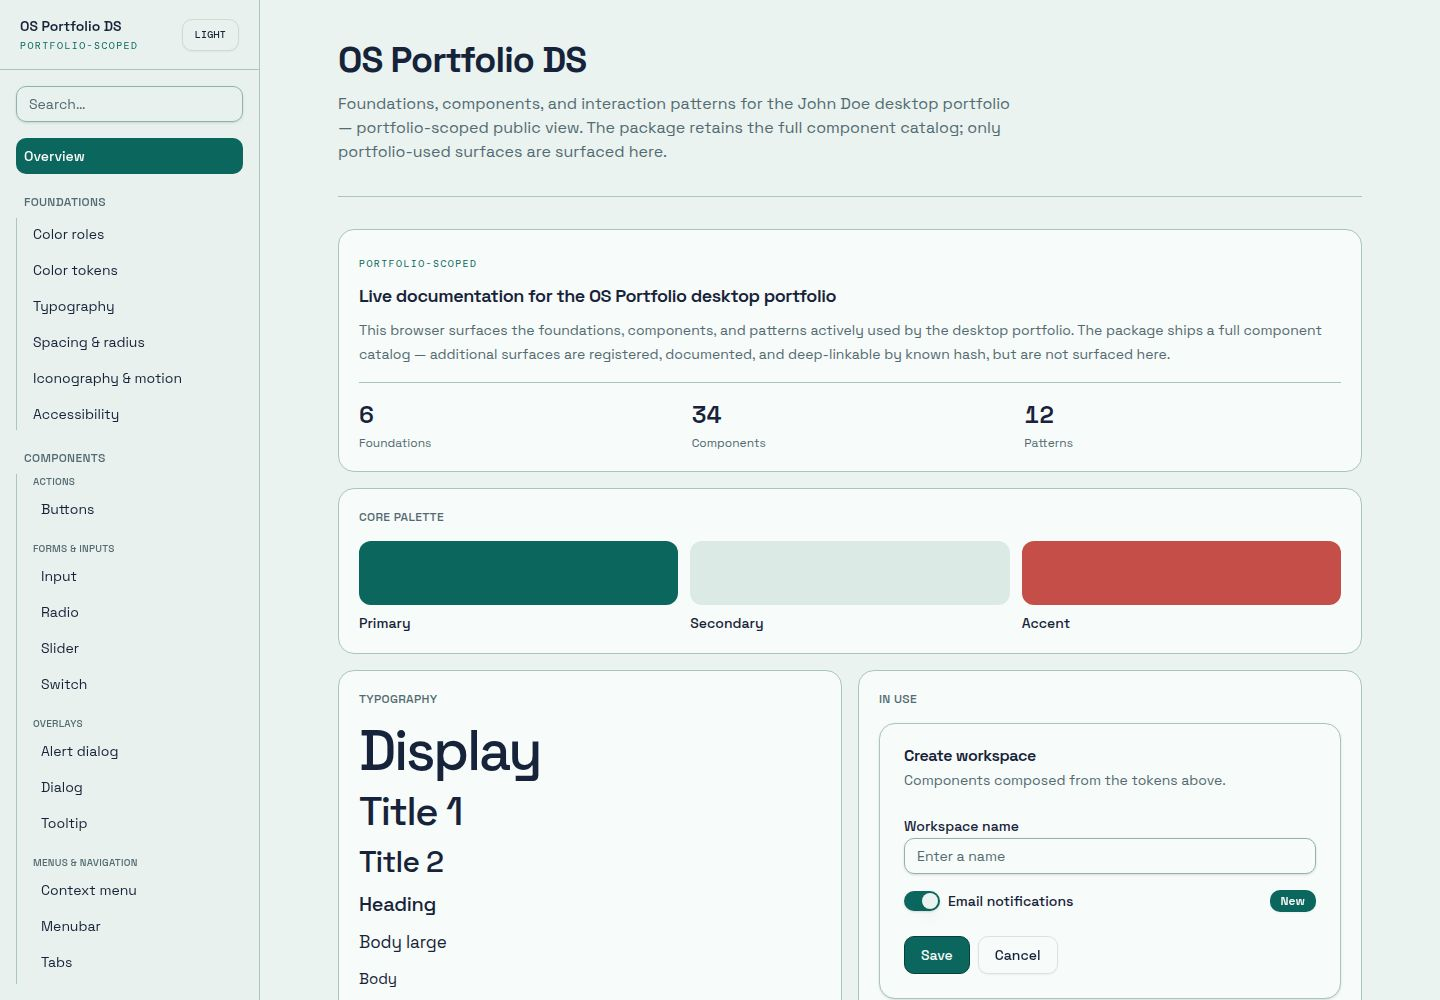
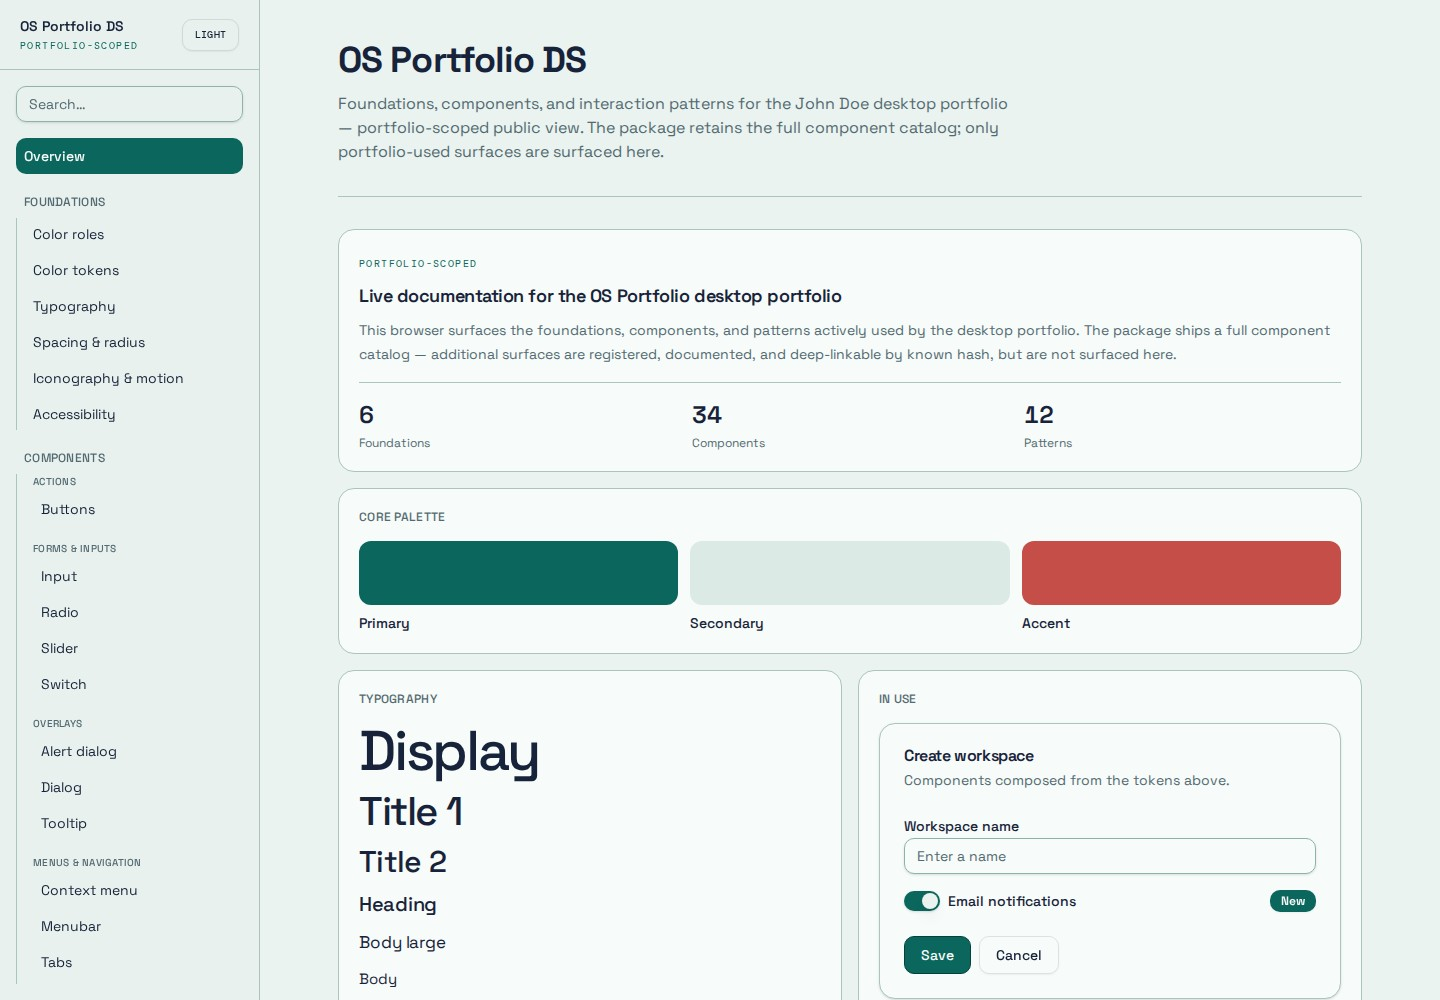
Reorder desktop context menu and simplify sticky menu items
Move Snap to grid above Cleanup icons in the desktop right-click
menu. Remove the reserved icon column for Reset rotation and Delete
this sticky in the sticky context menu so their labels sit flush
left. Add a WSL-based dev launch config since native Windows builds
are blocked by this repo's Linux-only native binary overrides.

diff --git a/artifacts/os-portfolio/src/App.tsx b/artifacts/os-portfolio/src/App.tsx
@@ -3656,8 +3656,8 @@ function Home() {
                   <button type="button" role="menuitemradio" aria-checked={iconSize === 'small'} onClick={() => { setIconSize('small'); setContextMenu(null); }}><span className="context-check">{iconSize === 'small' && <Check size={12} />}</span><span>Small icons</span></button>
                 </div>
               </div>
-              <button type="button" className="context-menu-button" role="menuitem" onClick={cleanupIcons}><span className="context-check" /><span>Cleanup icons</span></button>
               <button type="button" className="context-menu-button" role="menuitemcheckbox" aria-checked={snapToGrid} onClick={() => setSnapToGrid((value) => !value)}><span className="context-check">{snapToGrid && <Check size={12} />}</span><span>Snap to grid</span></button>
+              <button type="button" className="context-menu-button" role="menuitem" onClick={cleanupIcons}><span className="context-check" /><span>Cleanup icons</span></button>
               <button type="button" className="context-menu-button" role="menuitem" onClick={autoArrangeIcons}><span className="context-check" /><span>Auto arrange icons</span></button>
               <div className="context-menu-separator" />
             </>
@@ -3800,12 +3800,11 @@ function Home() {
           <div className="context-menu-separator" />
           <button
             type="button"
-            className="context-menu-button"
+            className="context-menu-button context-menu-button-no-icon"
             role="menuitem"
             onClick={() => resetStickyRotation(stickyMenu.id)}
             data-testid="button-reset-sticky-rotation"
           >
-            <span className="context-check" aria-hidden="true">0°</span>
             <span>Reset rotation</span>
           </button>
           {stickyMenu.id !== 'sticky' && (
@@ -3813,7 +3812,7 @@ function Home() {
               <div className="context-menu-separator" />
               <button
                 type="button"
-                className="context-menu-button context-menu-danger"
+                className="context-menu-button context-menu-button-no-icon context-menu-danger"
                 role="menuitem"
                 onClick={(event) => {
                   deleteDialogOpenerRef.current = event.currentTarget;
@@ -3822,7 +3821,6 @@ function Home() {
                 }}
                 data-testid="button-delete-sticky"
               >
-                <X size={14} aria-hidden="true" />
                 <span>Delete this sticky…</span>
               </button>
             </>

diff --git a/artifacts/os-portfolio/src/index.css b/artifacts/os-portfolio/src/index.css
@@ -481,6 +481,7 @@ button { cursor: pointer; }
 .desktop-context-menu { position: fixed; z-index: 100; width: 218px; padding: 6px; color: #edf0f8; background: rgba(29,32,54,.98); border: 1px solid rgba(210,218,255,.2); border-radius: 8px; box-shadow: 0 18px 55px rgba(0,0,0,.42), inset 0 1px 0 rgba(255,255,255,.05); backdrop-filter: none; font: 12px var(--app-font-sans); animation: context-in .08s ease-out both; }
 .context-menu-row { position: relative; }
 .context-menu-row > button, .context-menu-button, .context-submenu button { width: 100%; min-height: 30px; display: grid; grid-template-columns: 18px minmax(0, 1fr) auto; align-items: center; gap: 7px; padding: 5px 8px; color: inherit; background: transparent; border: 0; border-radius: 5px; text-align: left; }
+.context-menu-button-no-icon { grid-template-columns: minmax(0, 1fr) auto; }
 .context-menu-row > button:hover, .context-menu-row:focus-within > button, .context-menu-button:hover, .context-menu-button:focus-visible, .context-submenu button:hover, .context-submenu button:focus-visible { color: #111326; background: #e4ff5b; outline: none; }
 .context-menu-danger { color: #ff8d79; }
 .context-menu-danger:hover, .context-menu-danger:focus-visible { color: #fff; background: #b63f4d; }
